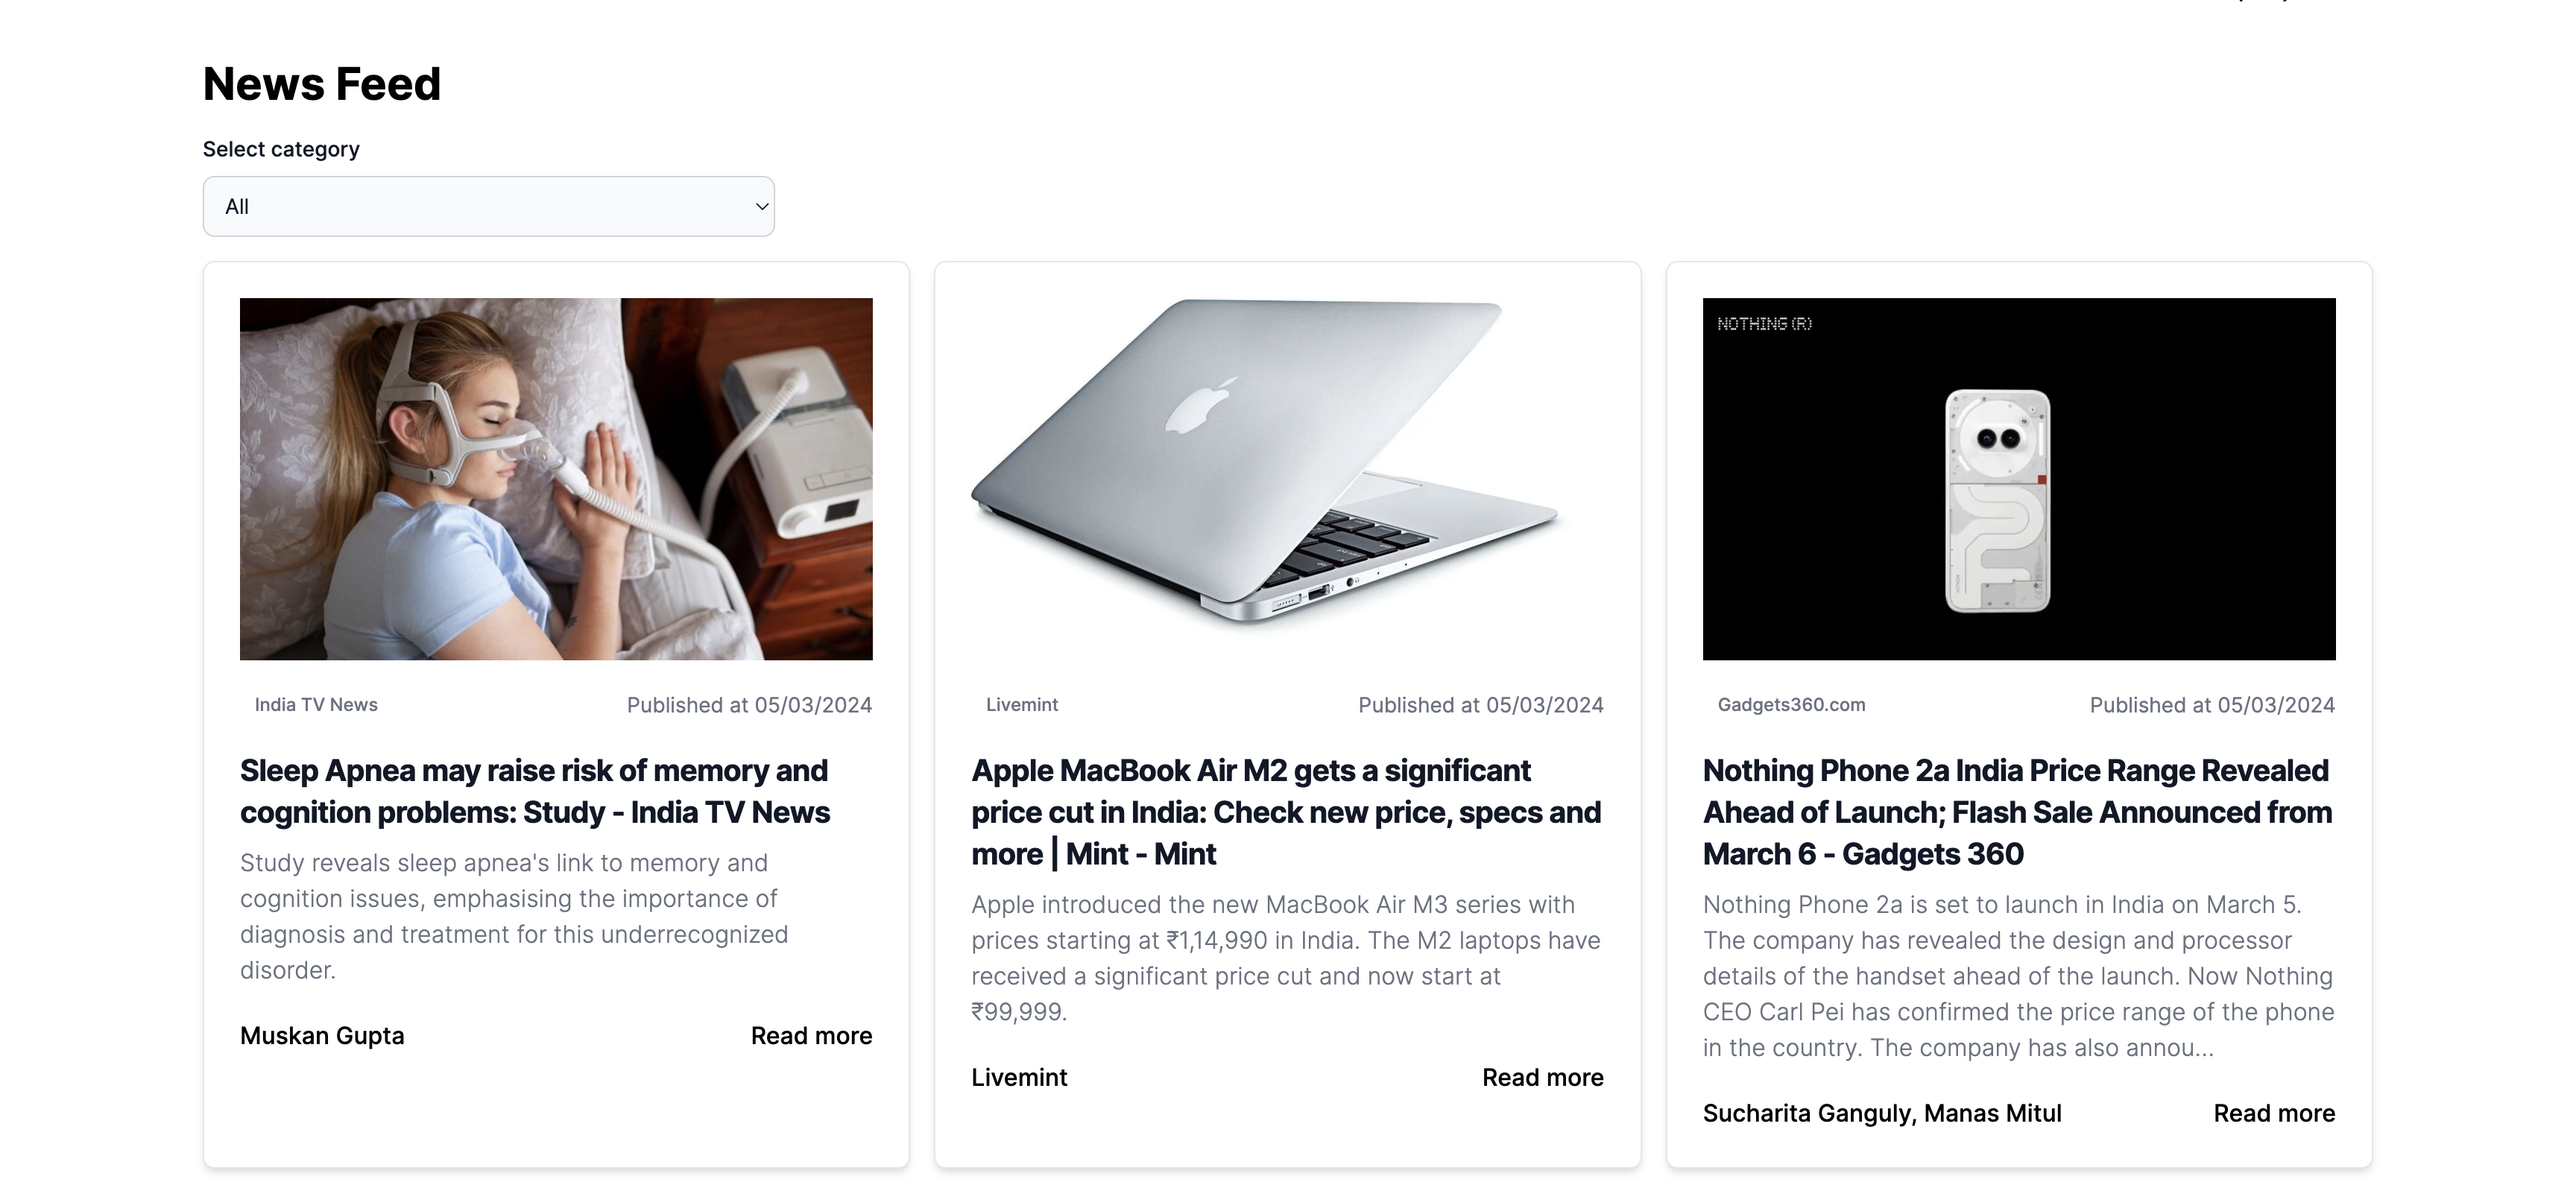
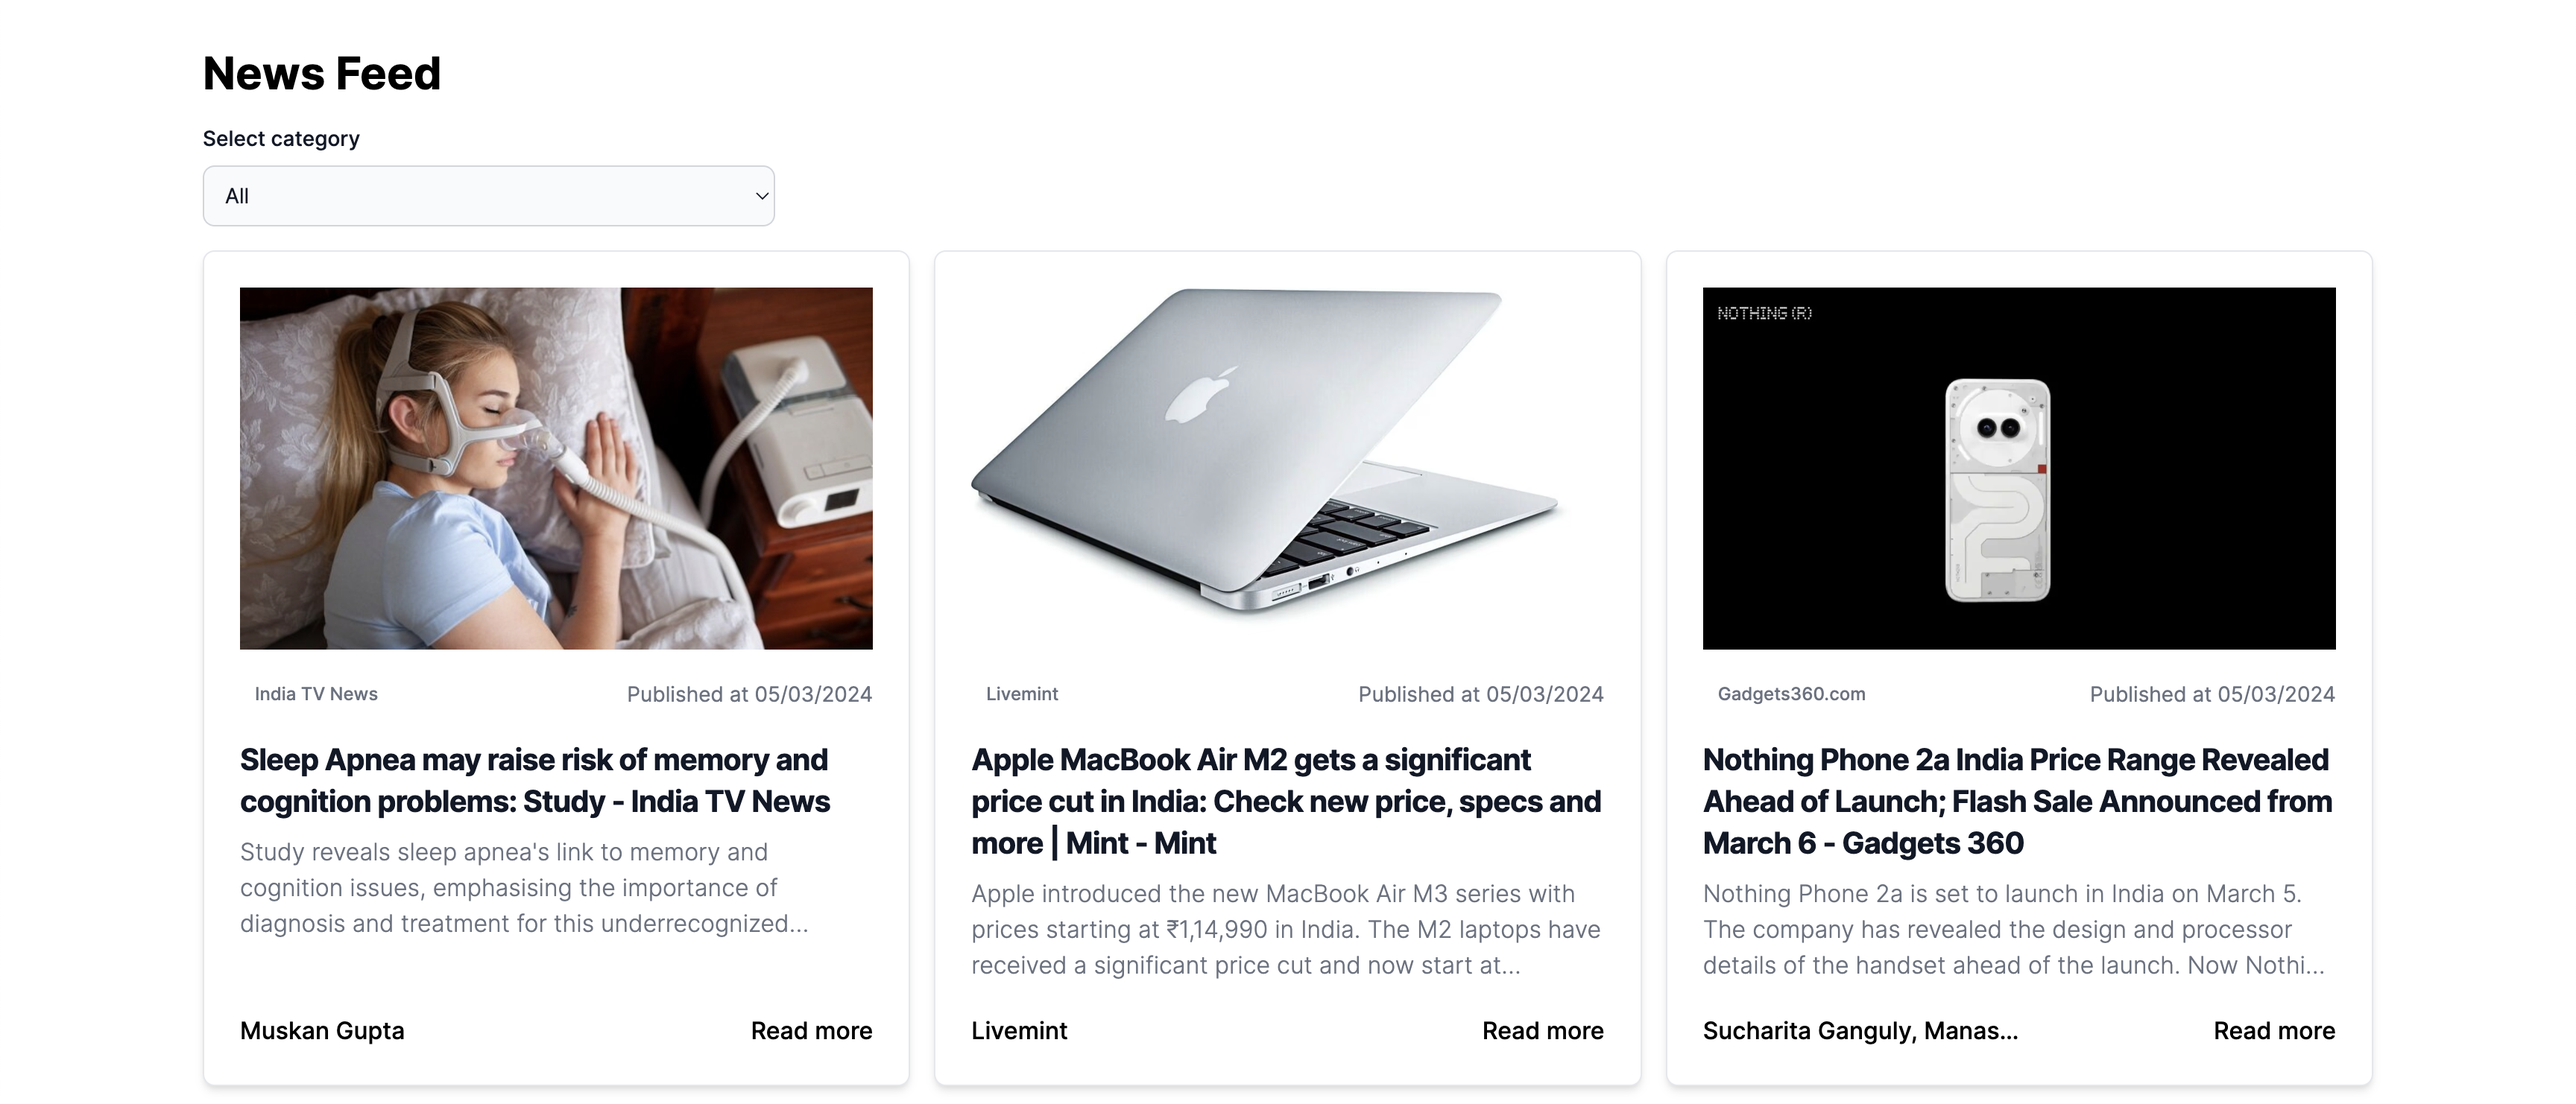
articles design tweaks

diff --git a/components/Articles.js b/components/Articles.js
@@ -56,7 +56,7 @@ function Articles() {
             </form>
             <div
                 className="grid gap-4 md:grid-cols-2 lg:grid-cols-3">
-                {data.map((article) => (<article className="p-6 bg-white rounded-lg border border-gray-200 shadow-md" key={article.title}>
+                {data.map((article) => (<article className="p-6 bg-white rounded-lg border border-gray-200 shadow-md flex flex-col justify-start" key={article.title}>
                     <img
                         src={article.urlToImage ? article.urlToImage : 'https://placehold.co/243x132'}
                         className="object-cover h-[243px] w-full"
@@ -69,14 +69,14 @@ function Articles() {
                         <span className="text-sm">Published at {new Date(article.publishedAt).toLocaleDateString()}</span>
                     </div>
                     <h2 className="mb-2 text-xl font-bold tracking-tight text-gray-900"><a href={article.url}>{article.title}</a></h2>
-                    <p className="mb-5 font-light text-gray-500">{article.description}</p>
-                    <div className="flex justify-between items-center">
-                        <div className="flex items-center space-x-4">
-                            <span className="font-medium">
+                    <p className="mb-5 font-light text-gray-500 line-clamp-3">{article.description}</p>
+                    <div className="flex justify-between items-center mt-auto">
+                        <div className="flex flex-1 items-center space-x-4">
+                            <span className="font-medium text-left line-clamp-1">
                                 {article.author}
                             </span>
                         </div>
-                        <a href={article.url} className="inline-flex items-center font-medium text-primary-600 hover:underline">
+                        <a href={article.url} className="flex-1 items-center font-medium text-right text-primary-600 hover:underline">
                             Read more
                         </a>
                     </div>
